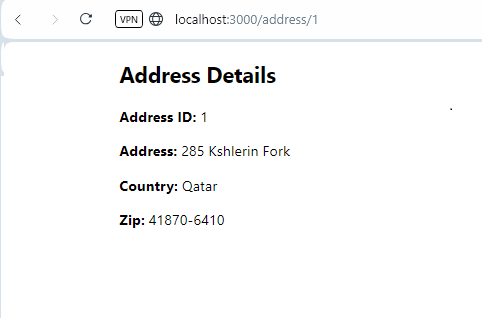
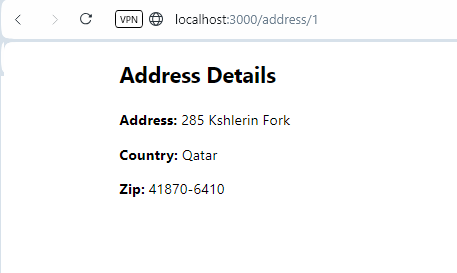
Do not show ID in AddressDetail

diff --git a/src/pages/AddressDetail.tsx b/src/pages/AddressDetail.tsx
@@ -8,9 +8,6 @@ export default function AddressDetail() {
   return (
     <div style={{ marginLeft: "8rem" }}>
       <h2>Address Details</h2>
-      <p>
-        <b>Address ID:</b> {addressId}
-      </p>
       {isOneAddressLoading ? (
         <h1>
           <b>Loading......</b>
